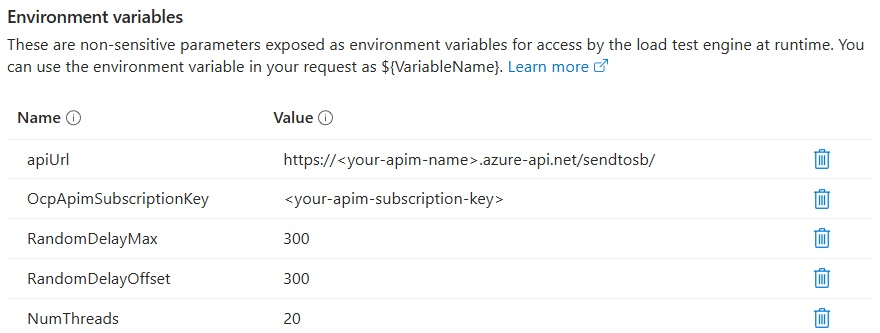
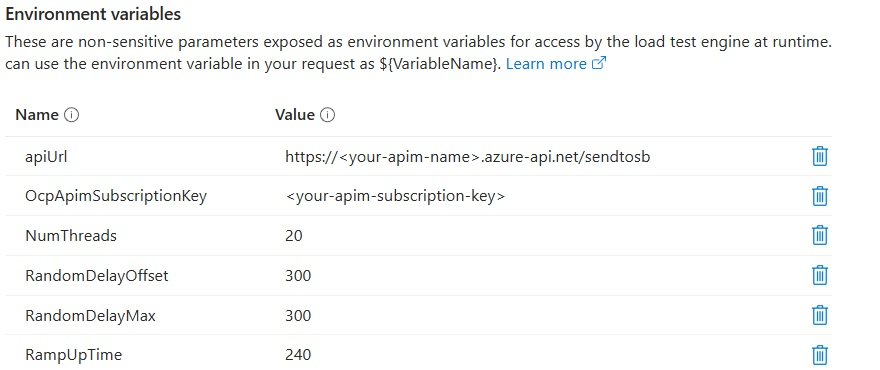
load testing with Azure Functions Premium Plan

diff --git a/tests.md b/tests.md
@@ -9,7 +9,7 @@ You can do a simple test by deploying the solution (see [here](./README.md#getti
 If you have deployed the solution into Azure, you can use the Azure Portal to monitor the various components and their interactions, see [below](#monitoring-in-azure-portal).
 
 ## Load Test
-
+### Configuration
 If you want to do a more comprehensive load test, you can leverage the resources in the [`LoadTest`](./src/LoadTest/) folder. It contains a JMeter script and associated test data file that can be run standalone or using Azure Load Testing. For general instructions on how to run the load test in Azure, check out the [docs](https://learn.microsoft.com/en-us/azure/load-testing/how-to-create-and-run-load-test-with-jmeter-script).
 
 When you create the test in your Azure Load Testing instance, select JMeter as the framework and upload the JMeter script and test data file: 
@@ -20,34 +20,86 @@ Configure the test parameters for the JMeter script as in the example below:
 
 ![Load Test Files](./Doc/loadtest_params.jpg)
 
-Make sure to use the proper values for your environment, specifically for APIM. For the random delay and thread parameters please check out the JMeter documentation.
+Make sure to use the proper values for your environment, specifically for APIM (endpoint & API subscription key). In order to control the load, you can configure the following parameters:
 
-## Test Results
+- `RampUpTime`: The time (in seconds) to ramp up the load. This is the time it takes to start all threads. If NumThreads is 20, and the ramp-up time is 240s, then the first thread will start immediately, the second thread will start after 12 seconds, the third thread after 24 seconds, and so on. Ramping up your test iteratively is important to give the backend (Function layer) the chance to autoscale properly.
+- `NumThreads`: The number of concurrent threads to use for the load test.
+- `RandomDelayOffset`: The constant random delay (in milliseconds) to apply to each request.
+- `RandomDelayMax`: The maximum random delay (in milliseconds) to add to the offset. JMeter generates a random number less than or equal to the provided value.
+
 ### Monitoring in Test Client
-In order to check latency for the client requests sent during the load test, there is a console client in the [`TestClient`](./src/TestClient/) folder. Configure your SignalR endpoint in the `appsettings.json` file and run it. When asked, connect to the `TestGroup`chat group that is also used by the JMeter test data. 
+In order to check end-to-end latency for the requests sent during the load test, there is a console client in the [`TestClient`](./src/TestClient/) folder. Configure your web app endpoint in the `appsettings.json` file and run it. When asked, connect to the `TestGroup`chat group that is also used by the JMeter CSV test data file. 
 
-When you run the load test, the test client will print out all responses, because (for testing purposes) ALL messages are sent back to the same group. This allows checking out latency by looking at the three timestamps that the client dumps out:
+When you run the load test, the test client will print out all responses, because (for testing purposes) ALL messages are sent back to the same chat group. This allows checking out latency by looking at the three timestamps that the client dumps out:
 
-  1. Time when the chat client outputs the message
-  2. Time when the chat client sent the message to APIM
-  3. Time when the Function sent the message to SignalR
+  1. Time when the chat client outputs the response 
+  2. Time when the chat client has sent the prompt to APIM
+  3. Time when the Function has sent the response to SignalR
 
 ![Test Client](./Doc/testclient.jpg)
 
 ### Monitoring in Azure Portal
-In the Azure Portal, you can monitor the various components of your solution and their interactions. For example, you can open the App Insights instance and go to 'investigate' -> 'Live Metrics' to see the incoming requests and their processing times. 
+In the Azure Portal, you can monitor the various components of your solution and their interactions. For example, you can open the App Insights instance and go to 'Investigate' -> 'Live Metrics' to see the incoming requests, throughput, processing times and number of function hosts processing requests.
 
-The image below shows one of the test runs with an average throughput of ~40 requests per second. Latency of the end-to-end calls wasn't significantly different from the latency of standalone model requests.
+## Test Results
+
+One of the goals of this sample is to show that the suggested decoupling approach is suitable for use cases where you need high throughput (i.e., many concurrent requests) and your backend requests are long-running at the same time. 
+
+To demonstrate this, I first tested a 'base' scenario, with the Function calling an LLM (gpt-4o-mini) with the prompt, and returning the response immediately (via SignalR), see [here](#base-scenario) for test results.
+
+Then I tested a 'high-throughput, long-running processing' scenario, where the Function first calls the LLM and then simulates further backend processing for a configurable time via an asynchronous Task.Delay() call. Imagine this being a group of agents collaborating on a task, which might take some time. You can see the results of my test runs [here](#high-throughput-scenario).
+
+### Base Scenario
+In the base scenario, no delay is configured for the backend, i.e. `DelayInSeconds` in the Function App Settings is set to 0. The Function calls the LLM and returns the response immediately via SignalR. Backend processing times for the simple prompts I used (see [loadtest.parameters.csv](./LoadTest/loadtest.parameters.csv)) was around 2-3 seconds. 
+
+I used the Flex Consumption Plan to host the Azure Function, and wanted to see how far this would scale for the base approach. I configured *Dynamic Concurrency* in `host.json`, see [here](https://learn.microsoft.com/en-us/azure/azure-functions/functions-concurrency#dynamic-concurrency-configuration) for details.
+
+You can find the deployment scripts for the base scenario in the `flex-consumption` branch of this repo. 
+
+Testing showed a throughput of up to ~40 requests per second, see image below.
 
 ![Live Metrics](./Doc/live_metrics.jpg)
 
+For increased load, the Service Bus queue started to fill up, and the Flex Consumption instances couldn't keep up or scale out fast enough. I didn't dig much deeper into configuration options for Flex Consumption, as I wanted to check out the Premium Plans and longer backend processing times anyway. 
+
+### High Throughput Scenario
+In the high-throughput scenario, I configured a delay for the backend, e.g., I set `DelayInSeconds` in the Function App Settings to 10 seconds. This delay is added to the backend processing time, after the function has called the LLM. So, overall backend processing time would be around 12-13 seconds, and I wanted to see end-to-end latency remain stable even under very high load.
+
+I used the Premium Plan to host the Azure Function for this scenario, as it offers better scaling options and performance compared to the Flex Consumption Plan. I deployed a Service Plan with 2 [Always Ready](https://learn.microsoft.com/en-us/azure/azure-functions/functions-premium-plan?tabs=portal#always-ready-instances) EP3 instances.
+
+In `host.json`, I configured the following settings for the [Service Bus trigger](https://learn.microsoft.com/en-us/azure/azure-functions/functions-concurrency) like this:
+
+```json
+ "extensions": {
+        "serviceBus": {
+            "prefetchCount": 512,
+            "maxConcurrentCalls": 128,
+            "autoCompleteMessages": true
+        }
+    }
+```
+
+I did not change the original Function code, so each function instance just processes a single Service Bus message. The Function Premium engine ensures that the instances can scale out to handle the load. That worked quite nicely. Going even higher in terms of throughput might require processing messages in batches & in parallel per instance, which is supported by the Service Bus trigger. 
+
+You can find the deployment scripts for the high-throughput scenario (incl. deployment of the Premium Plan & `host.json` settings) in the `main` branch of this repo.
+
+I tested up to a throughput of ~120 requests per second, without hitting any issues, see image below. 
+
+![Live Metrics](./Doc/live_metrics2.jpg)
+
+The image shows a flat processing time of around 12 seconds, which is the sum of the LLM call and the configured delay in the Function App Settings. Throughput was stable over time, and the Service Bus queue did not fill up, as the Premium Plan instances scaled out to handle the load.
+
+Also my console test client confirmed an end-to-end latency of around 12-14 seconds as well, see below: 
+
+![Test Client](./Doc/testclient2.jpg)
+
 ## Troubleshooting
-You will need to play with the testing parameters (e.g., RandomDelayMax, RandomDelayOffset, NumThreads) for the load test to find the right balance. 
+You will need to play with the testing parameters (e.g., `RandomDelayMax`, `RandomDelayOffset`, `NumThreads`) during the load test to find the right mix to achieve your desired throughput.
 
-For the Azure Function, Premium Plan might be an option to go much higher in terms of throughput and scale. You can also configure the Function to pick up messages from Service Bus in batches and process multiple messages in parallel.
+In order to achieve higher throughput & better scale, Premium Plan is the right option to host your Azure Functions. You can also configure the Function to pick up messages from Service Bus in batches and process multiple messages in parallel. This wasn't necessary in the test scenario described above to achieve a throughput of 100 requests per second with an overall average backend runtime of ~12 seconds.
 
-Check the live metrics in App Insights and logs of the Azure Function to see if there are any errors.
+In all your test runs, you should check the live metrics in App Insights and also the logs of the Azure Function to see if there are any errors.
 
-Make sure to provision enough quota (TPM - tokens per minute) on your Azure OpenAI resource. If that's not high enough your load test calls will get throttled (HTTP 429 errors). In that case, the Function will return an error string, which the test client will print out in red color. 
+Make sure to provision enough quota (TPM - tokens per minute) on your Azure OpenAI resource. If that's not high enough, your load test calls will get throttled (HTTP 429 errors). In that case, the Function will return an error string, which the test client will print out in red color. 
 
 ***In case you encounter any issues, please submit a PR to this repo.***
